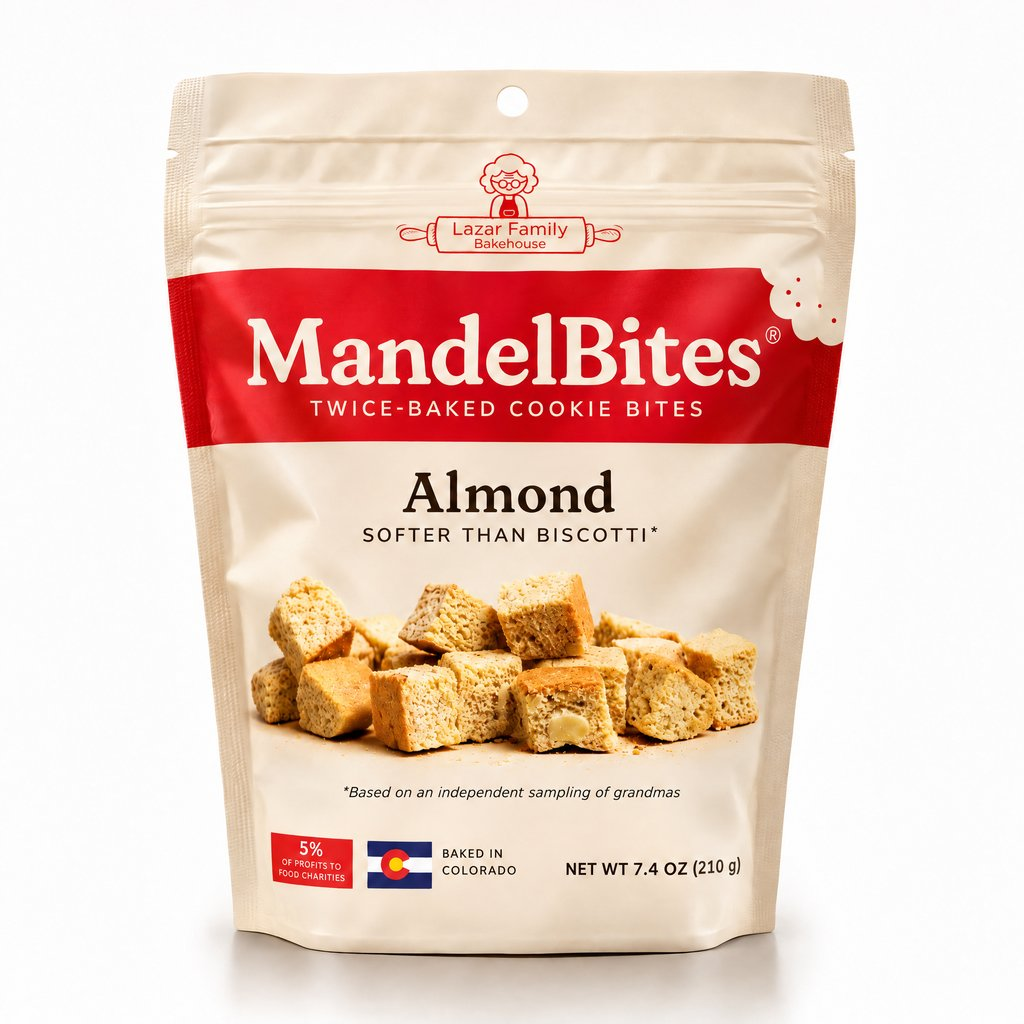
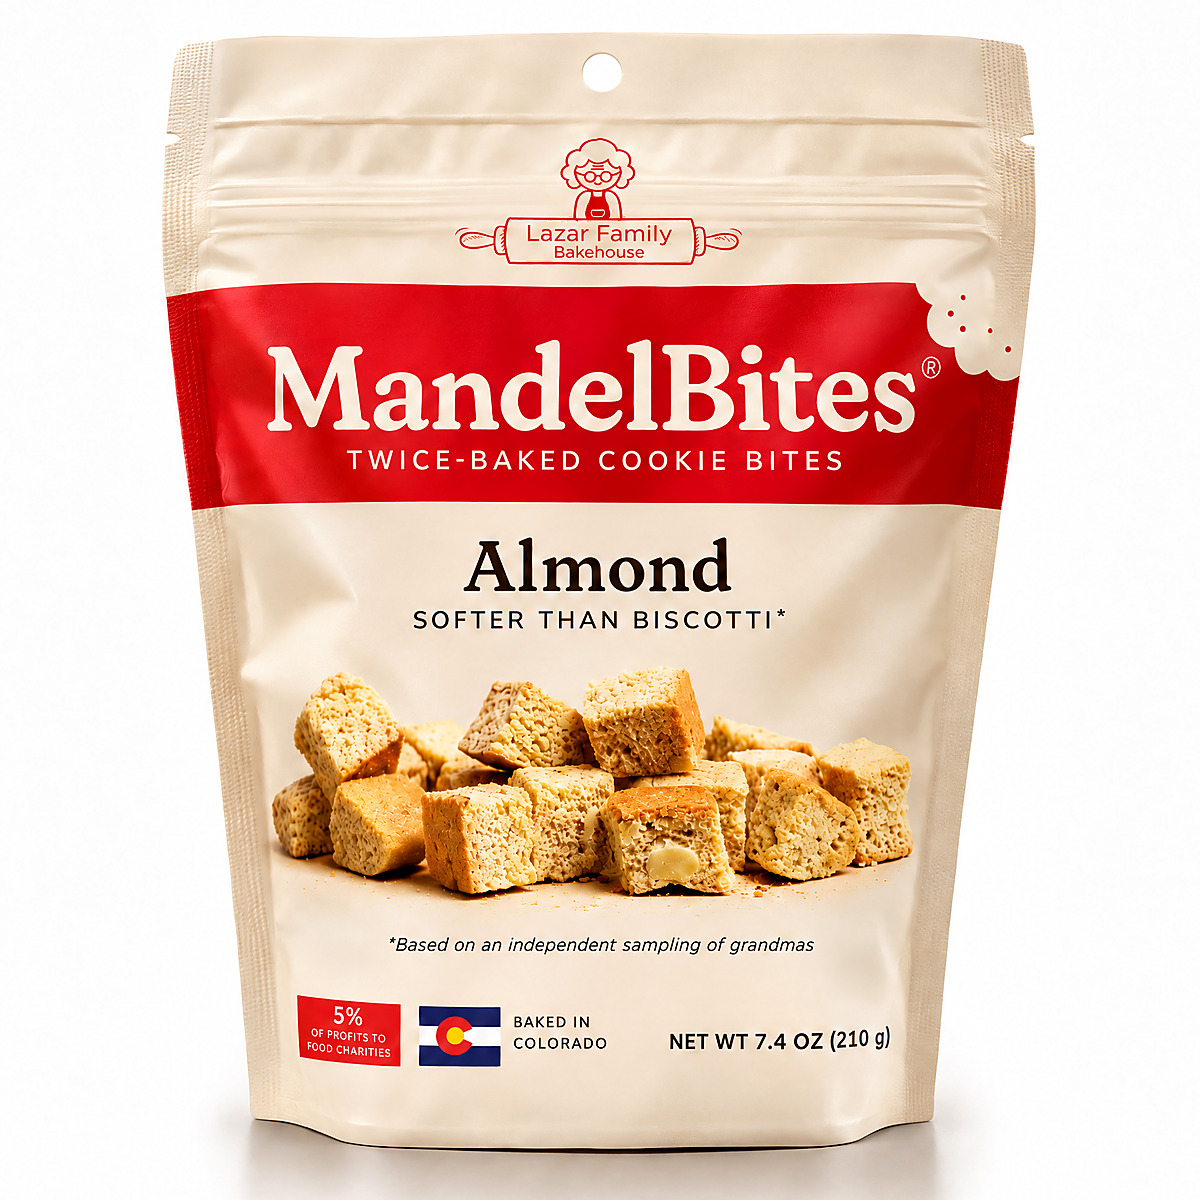
Fix 12-month chart on phones, retire Mandel Bread Rounds, sharper MandelBites photos
- Monthly bars stay on one row on mobile (last month was wrapping into a full-width bar)
- Rounds removed from catalog, product pickers and photo list; old orders still show them
- Photos cropped tighter, 1200px, sharpened

Claude-Session: https://claude.ai/code/session_01MWNr99UFWSN6huqWzrYi9Z

diff --git a/index.html b/index.html
@@ -377,6 +377,7 @@ tbody td { padding:10px 13px;color:var(--brown-dk); }
   .bar-chart{height:100px;gap:2px;}
   .bar-label{font-size:.55rem !important;}
   .bar-val{font-size:.55rem !important;}
+  .mbars{gap:3px;}
 
   /* ── Catalog ── */
   .catalog-grid{grid-template-columns:1fr !important;}
@@ -423,6 +424,8 @@ tbody td { padding:10px 13px;color:var(--brown-dk); }
 .bar { background:var(--red); border-radius:3px 3px 0 0; width:100%; min-height:3px; transition:height .3s; cursor:default; }
 .bar:hover { background:var(--red-dk); }
 .bar-label { font-size:.58rem; color:var(--muted); }
+.mbars { display:flex; flex-wrap:nowrap; align-items:flex-end; gap:8px; width:100%; flex-basis:100%; }
+.mbars .bar-wrap { min-width:0; align-self:stretch; }
 .bar-val { font-size:.52rem; color:var(--muted); text-align:center; white-space:nowrap; overflow:hidden; max-width:100%; }
 .top-ret-row { display:flex; align-items:center; gap:8px; margin-bottom:8px; }
 .top-ret-rank { font-size:.75rem; font-weight:700; color:var(--gold); width:18px; text-align:center; }
@@ -1197,7 +1200,7 @@ function setupRetailerRealtime(rid,pin) {
 
 const PRODUCTS = ['CC Mandelbites','Confetti Mandelbites','Gluten-Free Chocolate-Chip','Almond',
   'Indiv. Mandel - Chocolate Chip','Indiv. Mandel - Almond','Indiv. Mandel - GF Choc Chip',
-  'Two Pack Chocolate Chip','Mandel Bread Rounds'];
+  'Two Pack Chocolate Chip'];
 const PRODUCT_PRICES = {
   'CC Mandelbites':6.00,'Confetti Mandelbites':6.00,'Gluten-Free Chocolate-Chip':6.20,'Confetti':6.00,'Almond':6.40,
   'Indiv. Mandel - Chocolate Chip':1.25,'Indiv. Mandel - Almond':1.25,'Indiv. Mandel - Confetti':1.25,'Indiv. Mandel - GF Choc Chip':1.25,
@@ -1241,15 +1244,14 @@ const PRODUCT_DISPLAY_NAMES = {
 function getProductDisplayName(p){return PRODUCT_DISPLAY_NAMES[p]||p;}
 
 const PRODUCT_IMAGES = {
-  'CC Mandelbites':'images/cc-mandelbites.jpg?v=2',
-  'Confetti Mandelbites':'images/confetti-mandelbites.jpg?v=2',
-  'Gluten-Free Chocolate-Chip':'images/gf-choc-chip-mandelbites.jpg?v=2',
-  'Almond':'images/almond-mandelbites.jpg?v=2',
+  'CC Mandelbites':'images/cc-mandelbites.jpg?v=3',
+  'Confetti Mandelbites':'images/confetti-mandelbites.jpg?v=3',
+  'Gluten-Free Chocolate-Chip':'images/gf-choc-chip-mandelbites.jpg?v=3',
+  'Almond':'images/almond-mandelbites.jpg?v=3',
   'Indiv. Mandel - Chocolate Chip':'images/indiv-choc-chip-mandel-bread.jpg',
   'Indiv. Mandel - Almond':'images/indiv-almond-mandel-bread.jpg',
   'Indiv. Mandel - GF Choc Chip':'images/indiv-gf-choc-chip-mandel-bread.jpg',
-  'Two Pack Chocolate Chip':'images/two-pack-choc-chip.jpg',
-  'Mandel Bread Rounds':'images/mandel-bread-rounds.jpg'
+  'Two Pack Chocolate Chip':'images/two-pack-choc-chip.jpg'
 };
 // Load saved product images from localStorage (only override if saved value is non-empty)
 (function(){try{const saved=JSON.parse(localStorage.getItem('lfb_product_images')||'{}');for(const k in saved){if(saved[k]&&!/^images\//.test(saved[k]))PRODUCT_IMAGES[k]=saved[k];}}catch(e){}})();
@@ -1343,10 +1345,12 @@ function deliveryFeeRowHtml(o,cellStyle){
 const PRODUCT_SECTIONS = [
   {label:'Mandelbites (Packaged)',icon:'',products:['CC Mandelbites','Confetti Mandelbites','Gluten-Free Chocolate-Chip','Almond']},
   {label:'Individual Mandel Bread',icon:'',products:['Indiv. Mandel - Chocolate Chip','Indiv. Mandel - Almond','Indiv. Mandel - GF Choc Chip']},
-  {label:'Specialty Items',icon:'',products:['Two Pack Chocolate Chip','Mandel Bread Rounds']}
+  {label:'Specialty Items',icon:'',products:['Two Pack Chocolate Chip']}
 ];
 function productOpts(sel='') {
-  return PRODUCT_SECTIONS.map(sec=>
+  // A product that's no longer sold (e.g. Mandel Bread Rounds) stays selected on old orders
+  const listed=PRODUCT_SECTIONS.some(sec=>sec.products.includes(sel));
+  return (sel&&!listed?`<option value="${esc(sel)}" selected>${esc(getProductDisplayName(sel))} (discontinued)</option>`:'')+PRODUCT_SECTIONS.map(sec=>
     `<optgroup label="${sec.label}">`+
     sec.products.map(p=>`<option value="${p}"${p===sel?' selected':''}>${getProductDisplayName(p)}</option>`).join('')+
     `</optgroup>`
@@ -3652,7 +3656,7 @@ function refreshAnalytics() {
   const maxM=Math.max(...monthTotals,1);
   const bars=document.getElementById('anal-monthly-bars'); if(bars){
     const fmtK=v=>v>=1000?'$'+(v/1000).toFixed(1)+'k':'$'+Math.round(v);
-    bars.innerHTML=months.map((mo,i)=>{
+    bars.innerHTML='<div class="mbars">'+months.map((mo,i)=>{
       const hBM=monthBM[i]>0?Math.max(3,Math.round((monthBM[i]/maxM)*130)):0;
       const hGB=monthGB[i]>0?Math.max(3,Math.round((monthGB[i]/maxM)*130)):0;
       const hWEB=monthWEB[i]>0?Math.max(3,Math.round((monthWEB[i]/maxM)*130)):0;
@@ -3668,12 +3672,12 @@ function refreshAnalytics() {
         <div style="width:100%;height:6px;border-radius:3px;overflow:hidden;display:flex;margin-top:2px;background:var(--cream-dk);" title="${monthTotals[i]>0?pBM+'% Brick & Mortar / '+pGB+'% Goldbelly / '+pWEB+'% Website':''}">
           ${monthTotals[i]>0?`<div style="width:${pBM}%;background:var(--red);"></div><div style="width:${pGB}%;background:#b8860b;"></div><div style="flex:1;background:#3A5A6B;"></div>`:''}
         </div>
-      </div>`;}).join('')+
-      `<div style="flex-basis:100%;display:flex;gap:16px;justify-content:center;font-size:.7rem;color:var(--muted);padding-top:8px;">
+      </div>`;}).join('')+'</div>'+
+      `<div style="flex-basis:100%;display:flex;flex-wrap:wrap;gap:6px 16px;justify-content:center;font-size:.7rem;color:var(--muted);padding-top:8px;white-space:nowrap;">
         <span><span style="display:inline-block;width:10px;height:10px;border-radius:3px;background:var(--red);margin-right:4px;"></span>Brick & Mortar</span>
         <span><span style="display:inline-block;width:10px;height:10px;border-radius:3px;background:#b8860b;margin-right:4px;"></span>Online (Goldbelly)</span>
         <span><span style="display:inline-block;width:10px;height:10px;border-radius:3px;background:#3A5A6B;margin-right:4px;"></span>Website</span>
-        <span>Small bar under each month = that month's split (hover for exact %)</span>
+        <span style="white-space:normal;text-align:center;">Small bar under each month = that month's split (hover for exact %)</span>
       </div>`;
   }
 
@@ -4052,10 +4056,10 @@ const GB_PACKAGES = {
     summary:'Each box: 1 bag Chocolate-Chip, 1 Almond, 1 Confetti, 1 Gluten-Free CC + 2 Mandel Bread two-packs + thank-you card, red wrap',
     url:'https://www.goldbelly.com/restaurants/lazar-family-bakehouse/grandma-jeanne-sampler',
     contents:[
-      {item:'Chocolate-Chip MandelBites - 8 oz bag', qty:1, img:'images/cc-mandelbites.jpg?v=2'},
-      {item:'Almond MandelBites - 8 oz bag', qty:1, img:'images/almond-mandelbites.jpg?v=2'},
-      {item:'Confetti MandelBites - 8 oz bag', qty:1, img:'images/confetti-mandelbites.jpg?v=2'},
-      {item:'GF Chocolate-Chip MandelBites - 8 oz bag', qty:1, img:'images/gf-choc-chip-mandelbites.jpg?v=2'},
+      {item:'Chocolate-Chip MandelBites - 8 oz bag', qty:1, img:'images/cc-mandelbites.jpg?v=3'},
+      {item:'Almond MandelBites - 8 oz bag', qty:1, img:'images/almond-mandelbites.jpg?v=3'},
+      {item:'Confetti MandelBites - 8 oz bag', qty:1, img:'images/confetti-mandelbites.jpg?v=3'},
+      {item:'GF Chocolate-Chip MandelBites - 8 oz bag', qty:1, img:'images/gf-choc-chip-mandelbites.jpg?v=3'},
       {item:'Choc-Chip Mandel Bread Two-Pack - 2 oz', qty:2, img:'images/two-pack-choc-chip.jpg'},
       {item:'Thank You card + red wrap & Grandma sticker', qty:1}
     ]},
@@ -4063,9 +4067,9 @@ const GB_PACKAGES = {
     summary:'Each box: 2 bags Chocolate-Chip, 1 Almond, 1 Gluten-Free CC + thank-you card, navy & white wrap',
     url:'https://www.goldbelly.com/restaurants/lazar-family-bakehouse/the-shabbat-mandelbites-box',
     contents:[
-      {item:'Chocolate-Chip MandelBites - 8 oz bag', qty:2, img:'images/cc-mandelbites.jpg?v=2'},
-      {item:'Almond MandelBites - 8 oz bag', qty:1, img:'images/almond-mandelbites.jpg?v=2'},
-      {item:'GF Chocolate-Chip MandelBites - 8 oz bag', qty:1, img:'images/gf-choc-chip-mandelbites.jpg?v=2'},
+      {item:'Chocolate-Chip MandelBites - 8 oz bag', qty:2, img:'images/cc-mandelbites.jpg?v=3'},
+      {item:'Almond MandelBites - 8 oz bag', qty:1, img:'images/almond-mandelbites.jpg?v=3'},
+      {item:'GF Chocolate-Chip MandelBites - 8 oz bag', qty:1, img:'images/gf-choc-chip-mandelbites.jpg?v=3'},
       {item:'Thank You card + navy & white wrap', qty:1}
     ]},
   'mandelbites-pick-your-mix-6-pack': {name:'"Pick Your Mix" 6-Pack', price:89.95, payout:61.00, serves:12,
@@ -4073,7 +4077,7 @@ const GB_PACKAGES = {
     url:'https://www.goldbelly.com/restaurants/lazar-family-bakehouse/mandelbites-pick-your-mix-6-pack',
     note:"Customer picks the mix - check the Goldbelly order for which 6 bags. Combos: 6 CC · 6 GF · 3 CC+3 Confetti · 3 CC+3 Almond · 3 CC+3 GF · 3 Confetti+3 Almond · 2 CC+2 Almond+2 Confetti.",
     contents:[
-      {item:'MandelBites 8 oz bags - customer\'s choice of mix', qty:6, img:'images/cc-mandelbites.jpg?v=2'},
+      {item:'MandelBites 8 oz bags - customer\'s choice of mix', qty:6, img:'images/cc-mandelbites.jpg?v=3'},
       {item:'Thank You card + gift wrap', qty:1}
     ]},
   'treat-the-office': {name:'"Treat the Office" - 24 Pack', price:124.95, payout:85.00, serves:24,
@@ -4087,10 +4091,10 @@ const GB_PACKAGES = {
     summary:'Each box: 2 bags of EVERY flavor - 2 Chocolate-Chip, 2 Almond, 2 Confetti, 2 Gluten-Free CC (8 bags) + thank-you card',
     url:'https://www.goldbelly.com/restaurants/lazar-family-bakehouse/bakehouse-tour',
     contents:[
-      {item:'Chocolate-Chip MandelBites - 8 oz bag', qty:2, img:'images/cc-mandelbites.jpg?v=2'},
-      {item:'Almond MandelBites - 8 oz bag', qty:2, img:'images/almond-mandelbites.jpg?v=2'},
-      {item:'Confetti MandelBites - 8 oz bag', qty:2, img:'images/confetti-mandelbites.jpg?v=2'},
-      {item:'GF Chocolate-Chip MandelBites - 8 oz bag', qty:2, img:'images/gf-choc-chip-mandelbites.jpg?v=2'},
+      {item:'Chocolate-Chip MandelBites - 8 oz bag', qty:2, img:'images/cc-mandelbites.jpg?v=3'},
+      {item:'Almond MandelBites - 8 oz bag', qty:2, img:'images/almond-mandelbites.jpg?v=3'},
+      {item:'Confetti MandelBites - 8 oz bag', qty:2, img:'images/confetti-mandelbites.jpg?v=3'},
+      {item:'GF Chocolate-Chip MandelBites - 8 oz bag', qty:2, img:'images/gf-choc-chip-mandelbites.jpg?v=3'},
       {item:'Thank You card + red wrap & Grandma sticker', qty:1}
     ]}
 };
